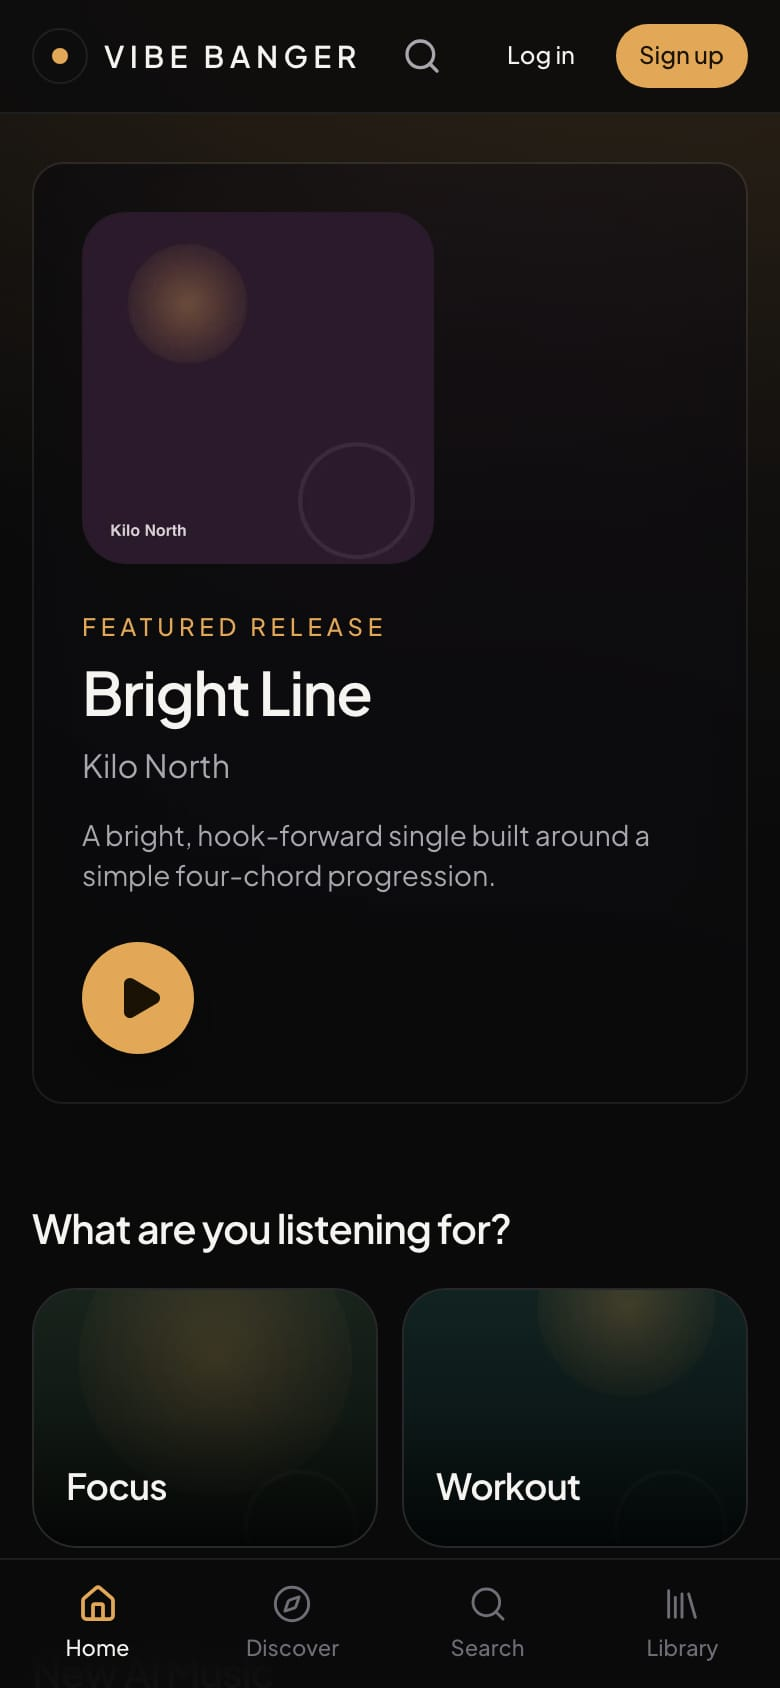
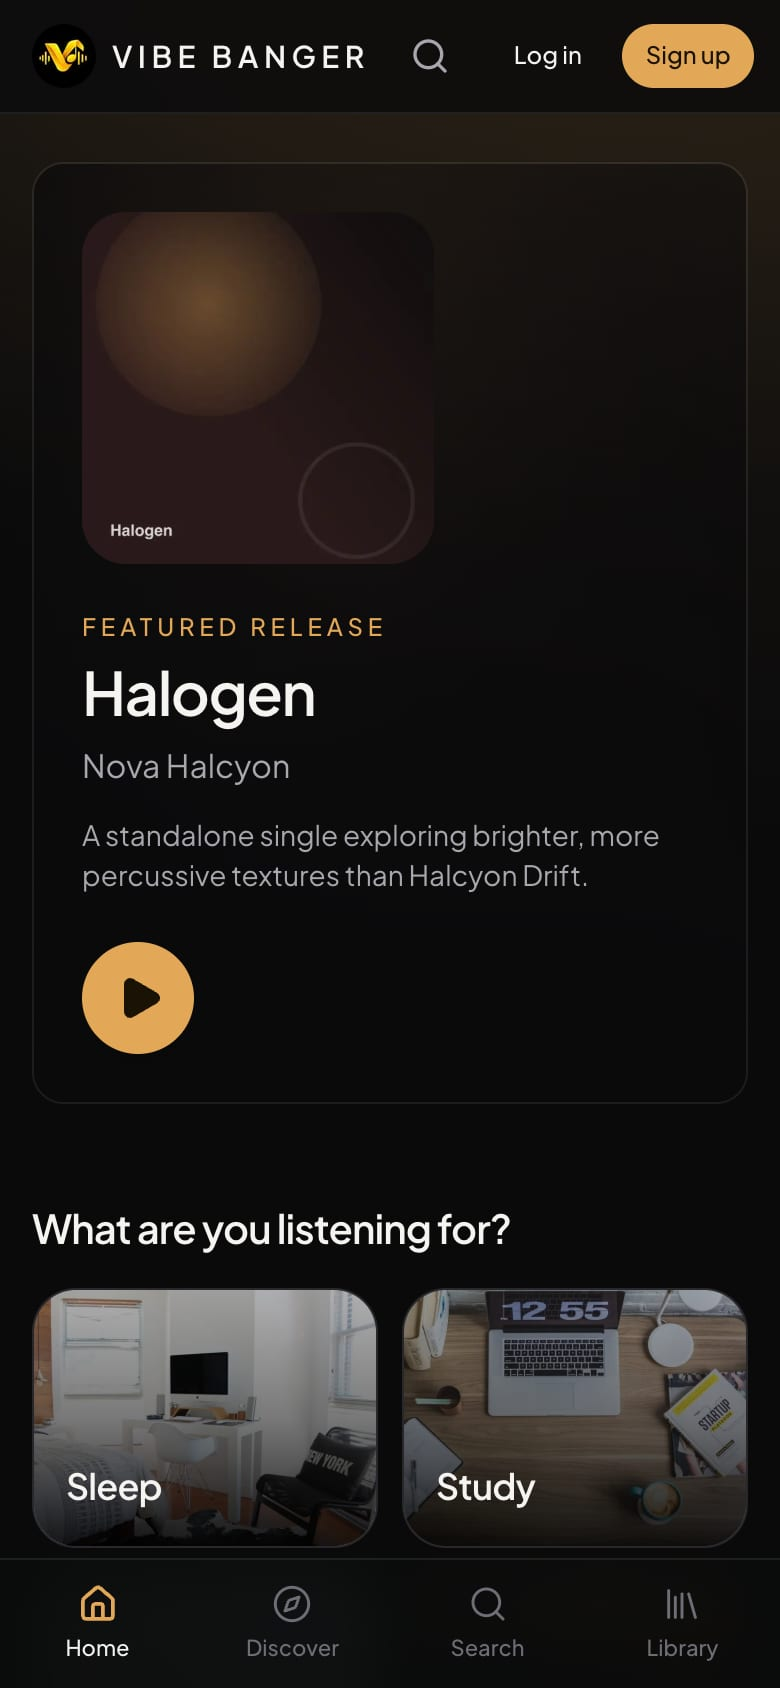
Artwork that moves between pages, and a way to find the shortcuts
Every navigation was a hard cut. Opening a track now moves its artwork
into the song page hero instead of repainting the screen — the clearest
signal on any navigation that this is an app rather than a website.

The name is claimed by the clicked card on click, not rendered onto
every card. Naming them all was the obvious approach and it looked
terrible: the same tracks appear on both pages, so every matching name
morphed at once and four covers flew across the screen instead of one
moving. One name, claimed by one card, released a second later.

Header, player bar, mini player and bottom navigation are pinned and
explicitly not animated. A player bar that slid or flickered on every
navigation would be much worse than no transition at all. The overlay
is click-through so a navigation can never swallow a tap, and all of it
is disabled under prefers-reduced-motion, where sliding artwork is
exactly the kind of motion people turn off.

Also: a keyboard button in the player bar opens the shortcuts overlay.
The shortcuts shipped with no way to discover them — "?" is invisible
unless you already know. And the install-dialog screenshots are
regenerated, since all five still advertised the old placeholder logo.
The wordmark no longer wraps at phone width, which the larger logo mark
had started to cause.

diff --git a/app/globals.css b/app/globals.css
@@ -201,3 +201,62 @@ html:has(.embed-root) body {
 html:has(.embed-root) body::before {
   display: none;
 }
+
+/* ---------------------------------------------------------------------------
+   View transitions
+
+   Opening a track moves its artwork into the song page rather than repainting
+   the screen — the one thing that separates an app from a website on every
+   navigation. Only the artwork animates; everything else is deliberately
+   still, because the fixed chrome is what anchors the page.
+   --------------------------------------------------------------------------- */
+
+/* The transition overlay swallows clicks while it runs. Let them through, so
+   a navigation can never feel like it dropped a tap. */
+::view-transition {
+  pointer-events: none;
+}
+
+::view-transition-group(.morph) {
+  animation-duration: 320ms;
+}
+/* Blur hides the pixel interpolation as one aspect ratio becomes another. */
+::view-transition-image-pair(.morph) {
+  animation-name: art-morph-blur;
+}
+@keyframes art-morph-blur {
+  30% {
+    filter: blur(3px);
+  }
+}
+
+/* Chrome holds still: a player bar that slid or flickered on every navigation
+   would be far worse than no transition at all. */
+::view-transition-group(site-header),
+::view-transition-group(player-bar),
+::view-transition-group(mini-player),
+::view-transition-group(bottom-nav) {
+  animation: none;
+  z-index: 100;
+}
+::view-transition-old(site-header),
+::view-transition-old(player-bar),
+::view-transition-old(mini-player),
+::view-transition-old(bottom-nav) {
+  display: none;
+}
+::view-transition-new(site-header),
+::view-transition-new(player-bar),
+::view-transition-new(mini-player),
+::view-transition-new(bottom-nav) {
+  animation: none;
+}
+
+@media (prefers-reduced-motion: reduce) {
+  ::view-transition-old(*),
+  ::view-transition-new(*),
+  ::view-transition-group(*) {
+    animation-duration: 0s !important;
+    animation-delay: 0s !important;
+  }
+}

diff --git a/components/player/desktop-player.tsx b/components/player/desktop-player.tsx
@@ -1,7 +1,7 @@
 "use client";
 
 import Link from "next/link";
-import { Shuffle, SkipBack, SkipForward, Repeat, Repeat1, ListMusic, Maximize2 } from "lucide-react";
+import { Shuffle, SkipBack, SkipForward, Repeat, Repeat1, Keyboard, ListMusic, Maximize2 } from "lucide-react";
 import { TrackArt } from "@/components/player/track-art";
 import { PlayButton } from "@/components/player/play-button";
 import { WaveformProgress } from "@/components/player/waveform-progress";
@@ -9,6 +9,7 @@ import { VolumeControl } from "@/components/player/volume-control";
 import { LikeButton } from "@/components/music/like-button";
 import { DownloadButton } from "@/components/music/download-button";
 import { ShareMenu } from "@/components/music/share-menu";
+import { SHORTCUTS_EVENT } from "@/components/player/keyboard-shortcuts";
 import { SleepTimerMenu } from "@/components/player/sleep-timer-menu";
 import { usePlayerStore } from "@/lib/stores/player-store";
 import { useDominantColor } from "@/hooks/use-dominant-color";
@@ -110,6 +111,14 @@ export function DesktopPlayer() {
         />
         <SleepTimerMenu size="sm" />
         <VolumeControl />
+        <button
+          onClick={() => window.dispatchEvent(new Event(SHORTCUTS_EVENT))}
+          aria-label="Keyboard shortcuts"
+          title="Keyboard shortcuts (?)"
+          className="hidden h-8 w-8 items-center justify-center rounded-full text-foreground-muted transition-colors hover:bg-surface-hover hover:text-foreground lg:flex"
+        >
+          <Keyboard className="h-4 w-4" />
+        </button>
         <button
           onClick={() => setQueueOpen(true)}
           aria-label="Open queue"

diff --git a/components/music/music-card.tsx b/components/music/music-card.tsx
@@ -1,5 +1,6 @@
 import Link from "next/link";
 import { TrackArt } from "@/components/player/track-art";
+import { ArtworkMorphLink } from "@/components/music/artwork-morph-link";
 import { PlayButton } from "@/components/player/play-button";
 import { cn, formatDuration } from "@/lib/utils";
 import type { PlayerTrack } from "@/lib/types";
@@ -16,7 +17,7 @@ export function MusicCard({
 }) {
   return (
     <div className={cn("group w-40 shrink-0 sm:w-44", className)}>
-      <Link href={`/song/${track.slug}`} className="block">
+      <ArtworkMorphLink href={`/song/${track.slug}`} className="block">
         <div className="relative aspect-square overflow-hidden rounded-lg bg-surface shadow-sm transition-shadow group-hover:shadow-elevated">
           <TrackArt src={track.coverUrl} alt={track.title} className="h-full w-full" rounded="rounded-none" sizes="176px" />
           <div className="absolute inset-0 bg-gradient-to-t from-black/50 via-transparent to-transparent opacity-0 transition-opacity group-hover:opacity-100" />
@@ -27,7 +28,7 @@ export function MusicCard({
             className="absolute bottom-2 right-2 shadow-lg transition-all can-hover:translate-y-1 can-hover:opacity-0 can-hover:group-hover:translate-y-0 can-hover:group-hover:opacity-100"
           />
         </div>
-      </Link>
+      </ArtworkMorphLink>
       <div className="mt-2.5 min-w-0">
         <Link href={`/song/${track.slug}`} className="block truncate text-sm font-medium text-foreground hover:underline">
           {track.title}

diff --git a/app/(public)/song/[slug]/page.tsx b/app/(public)/song/[slug]/page.tsx
@@ -1,4 +1,6 @@
 import type { Metadata } from "next";
+import { ViewTransition } from "react";
+import { HERO_ART } from "@/components/music/artwork-morph-link";
 import Image from "next/image";
 import Link from "next/link";
 import { notFound } from "next/navigation";
@@ -128,11 +130,14 @@ export default async function SongPage({
       />
       <div className="flex flex-col gap-8 sm:flex-row sm:items-end">
         {/* Sized so the play button is on the first screen of a phone, above the bottom navigation. */}
-        <div className="relative aspect-square w-56 shrink-0 overflow-hidden rounded-xl shadow-elevated sm:w-64">
-          {heroImage && (
-            <Image src={heroImage} alt={track.title} fill sizes="256px" className="object-cover" priority />
-          )}
-        </div>
+        {/* The other half of the morph — see components/music/music-card.tsx. */}
+        <ViewTransition name={HERO_ART} share="morph" default="none">
+          <div className="relative aspect-square w-56 shrink-0 overflow-hidden rounded-xl shadow-elevated sm:w-64">
+            {heroImage && (
+              <Image src={heroImage} alt={track.title} fill sizes="256px" className="object-cover" priority />
+            )}
+          </div>
+        </ViewTransition>
 
         <div className="min-w-0 flex-1">
           <p className="text-xs font-medium uppercase tracking-[0.2em] text-foreground-subtle">Song</p>

diff --git a/components/music/artwork-morph-link.tsx b/components/music/artwork-morph-link.tsx
@@ -1,0 +1,47 @@
+"use client";
+
+import Link from "next/link";
+import { useRef } from "react";
+
+/** The one name a morphing artwork claims. See app/globals.css. */
+export const HERO_ART = "track-hero-art";
+
+/**
+ * A link whose artwork morphs into the destination's hero image.
+ *
+ * The name is claimed on click rather than rendered onto every card, because
+ * a name is only useful in pairs: with every card named, opening a track
+ * animated every artwork that happened to appear on both pages at once, and
+ * several covers flew across the screen instead of one moving.
+ */
+export function ArtworkMorphLink({
+  href,
+  className,
+  children,
+}: {
+  href: string;
+  className?: string;
+  children: React.ReactNode;
+}) {
+  const ref = useRef<HTMLAnchorElement>(null);
+
+  return (
+    <Link
+      ref={ref}
+      href={href}
+      className={className}
+      onClick={() => {
+        const art = ref.current?.firstElementChild;
+        if (!(art instanceof HTMLElement)) return;
+        art.style.viewTransitionName = HERO_ART;
+        // Released once the transition has had its moment, so a cancelled
+        // navigation doesn't leave this card holding the name.
+        window.setTimeout(() => {
+          art.style.viewTransitionName = "";
+        }, 1000);
+      }}
+    >
+      {children}
+    </Link>
+  );
+}

diff --git a/components/player/keyboard-shortcuts.tsx b/components/player/keyboard-shortcuts.tsx
@@ -6,6 +6,8 @@ import { volumeIsControllable } from "@/lib/audio/engine";
 import { SHORTCUTS, SEEK_SECONDS, VOLUME_STEP, isTyping } from "@/lib/audio/shortcuts";
 import { Dialog, DialogContent, DialogHeader, DialogTitle, DialogDescription } from "@/components/ui/dialog";
 
+export const SHORTCUTS_EVENT = "vibebanger:shortcuts";
+
 const noop = () => () => {};
 const clamp = (value: number, min: number, max: number) => Math.min(max, Math.max(min, value));
 
@@ -102,6 +104,14 @@ export function KeyboardShortcuts() {
     window.addEventListener("keydown", handler);
     return () => window.removeEventListener("keydown", handler);
   }, [handler]);
+
+  // Opened from the player bar too: nothing on screen hints that "?" exists,
+  // and a shortcut nobody can find is a shortcut nobody uses.
+  useEffect(() => {
+    const open = () => setShowHelp(true);
+    window.addEventListener(SHORTCUTS_EVENT, open);
+    return () => window.removeEventListener(SHORTCUTS_EVENT, open);
+  }, []);
 
   const groups = ["Playback", "Sound", "Elsewhere"] as const;
 

diff --git a/components/player/mobile-mini-player.tsx b/components/player/mobile-mini-player.tsx
@@ -24,7 +24,7 @@ export function MobileMiniPlayer() {
       className={cn(
         "fixed inset-x-0 z-30 flex h-16 w-full items-center gap-3 border-t border-border bg-canvas-raised/85 px-3 text-left shadow-player backdrop-blur-xl md:hidden"
       )}
-      style={{ bottom: "calc(64px + env(safe-area-inset-bottom, 0px))" }}
+      style={{ bottom: "calc(64px + env(safe-area-inset-bottom, 0px))", viewTransitionName: "mini-player" }}
       aria-label="Open Now Playing"
     >
       <TrackArt src={track.coverUrl} alt={track.title} className="h-11 w-11" />

diff --git a/components/layout/logo.tsx b/components/layout/logo.tsx
@@ -19,9 +19,9 @@ export function Logo({ className }: { className?: string }) {
         width={32}
         height={32}
         priority
-        className="h-8 w-8 rounded-lg transition-transform group-hover:scale-105"
+        className="h-8 w-8 shrink-0 rounded-lg transition-transform group-hover:scale-105"
       />
-      <span className="font-semibold tracking-[0.18em] text-[15px] uppercase">Vibe Banger</span>
+      <span className="whitespace-nowrap font-semibold tracking-[0.18em] text-[15px] uppercase">Vibe Banger</span>
     </Link>
   );
 }

diff --git a/components/layout/bottom-nav.tsx b/components/layout/bottom-nav.tsx
@@ -11,7 +11,7 @@ export function BottomNav() {
   return (
     <nav
       className="fixed inset-x-0 bottom-0 z-40 border-t border-border bg-canvas/95 backdrop-blur-md md:hidden"
-      style={{ paddingBottom: "env(safe-area-inset-bottom, 0px)" }}
+      style={{ paddingBottom: "env(safe-area-inset-bottom, 0px)", viewTransitionName: "bottom-nav" }}
     >
       <div className="flex h-16 items-stretch justify-around">
         {mobileNavLinks.map((link) => {

diff --git a/components/layout/header.tsx b/components/layout/header.tsx
@@ -22,7 +22,7 @@ export function Header() {
   return (
     <header
       className="sticky top-0 z-40 hidden border-b border-border bg-canvas/80 backdrop-blur-md md:block"
-      style={{ paddingTop: "env(safe-area-inset-top, 0px)" }}
+      style={{ paddingTop: "env(safe-area-inset-top, 0px)", viewTransitionName: "site-header" }}
     >
       <div className="mx-auto flex h-16 max-w-[1600px] items-center gap-8 px-8">
         <Logo />

diff --git a/components/layout/mobile-header.tsx b/components/layout/mobile-header.tsx
@@ -9,7 +9,7 @@ export function MobileHeader() {
   return (
     <header
       className="sticky top-0 z-40 border-b border-border bg-canvas/80 backdrop-blur-md md:hidden"
-      style={{ paddingTop: "env(safe-area-inset-top, 0px)" }}
+      style={{ paddingTop: "env(safe-area-inset-top, 0px)", viewTransitionName: "site-header" }}
     >
       <div className="flex h-14 items-center gap-3 px-4">
         <Logo />

diff --git a/components/player/player-shell.tsx b/components/player/player-shell.tsx
@@ -18,7 +18,7 @@ export function PlayerShell() {
       <RadioAutofill />
       <KeyboardShortcuts />
       {hasTrack && (
-        <div className="fixed inset-x-0 bottom-0 z-30 hidden md:block">
+        <div className="fixed inset-x-0 bottom-0 z-30 hidden md:block" style={{ viewTransitionName: "player-bar" }}>
           <DesktopPlayer />
         </div>
       )}
